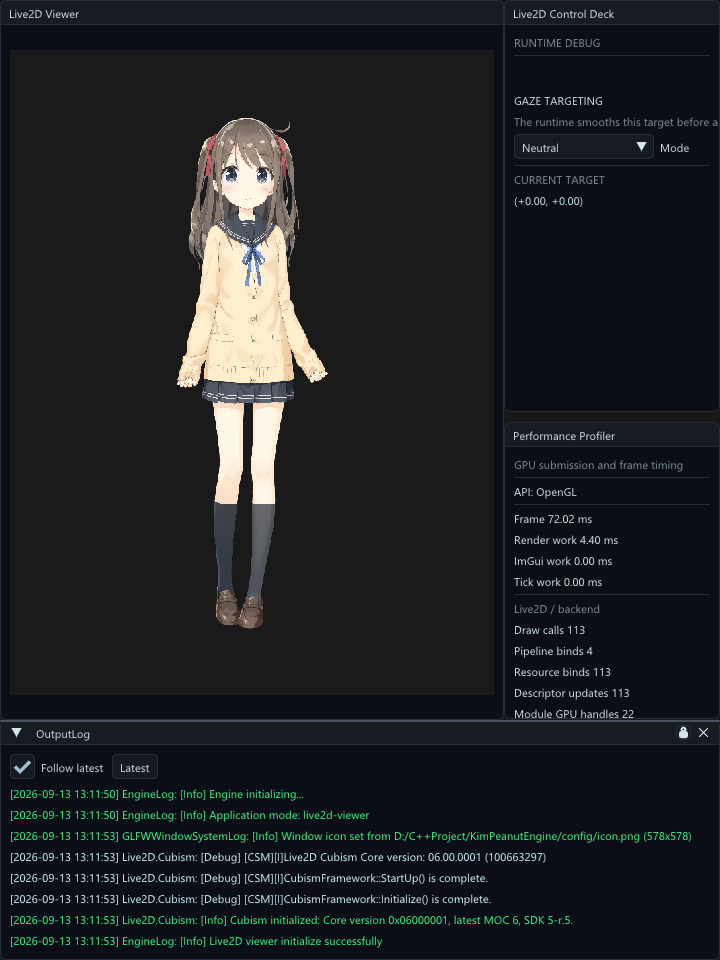
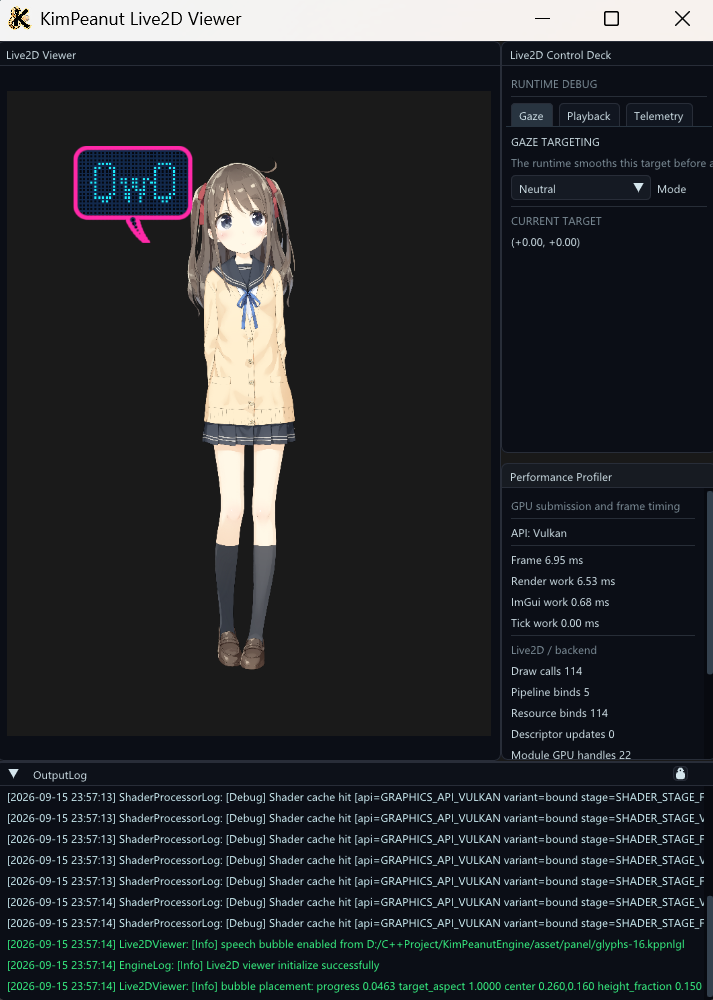
Update KimPeanut Engine captures: new Live2D viewer, add asset reference graph

Changed region(s): [[0.0, 0.0, 1.0, 1.0], [0.0926, 0.125, 0.4628, 0.6875]]

diff --git a/src/data/projects.ts b/src/data/projects.ts
@@ -33,9 +33,14 @@ export const projects: Project[] = [
         caption: 'Browsing engine assets without leaving the editor.',
       },
       {
+        src: '/projects/kimpeanut-engine/asset-reference.png',
+        alt: 'KimPeanut Engine asset reference viewer',
+        caption: 'The reference viewer traces level → model → material → shader dependency chains as a graph.',
+      },
+      {
         src: '/projects/kimpeanut-engine/live2d.png',
-        alt: 'KimPeanut Engine rendering view',
-        caption: 'A live rendering view for scene and material iteration.',
+        alt: 'KimPeanut Engine Live2D viewer',
+        caption: 'A dedicated Live2D viewer: gaze targeting, speech bubbles, and per-frame Vulkan profiling.',
       },
       {
         src: '/projects/kimpeanut-engine/loading.png',
@@ -50,7 +55,7 @@ export const projects: Project[] = [
     ],
     notes: [
       'A modular rendering architecture with an API-neutral RHI over Vulkan and OpenGL backends.',
-      'The editor brings scene inspection, asset browsing, diagnostics, and profiling into the same working loop.',
+      'The editor brings scene inspection, asset browsing, dependency reference graphs, diagnostics, and profiling into the same working loop.',
     ],
   },
   {
